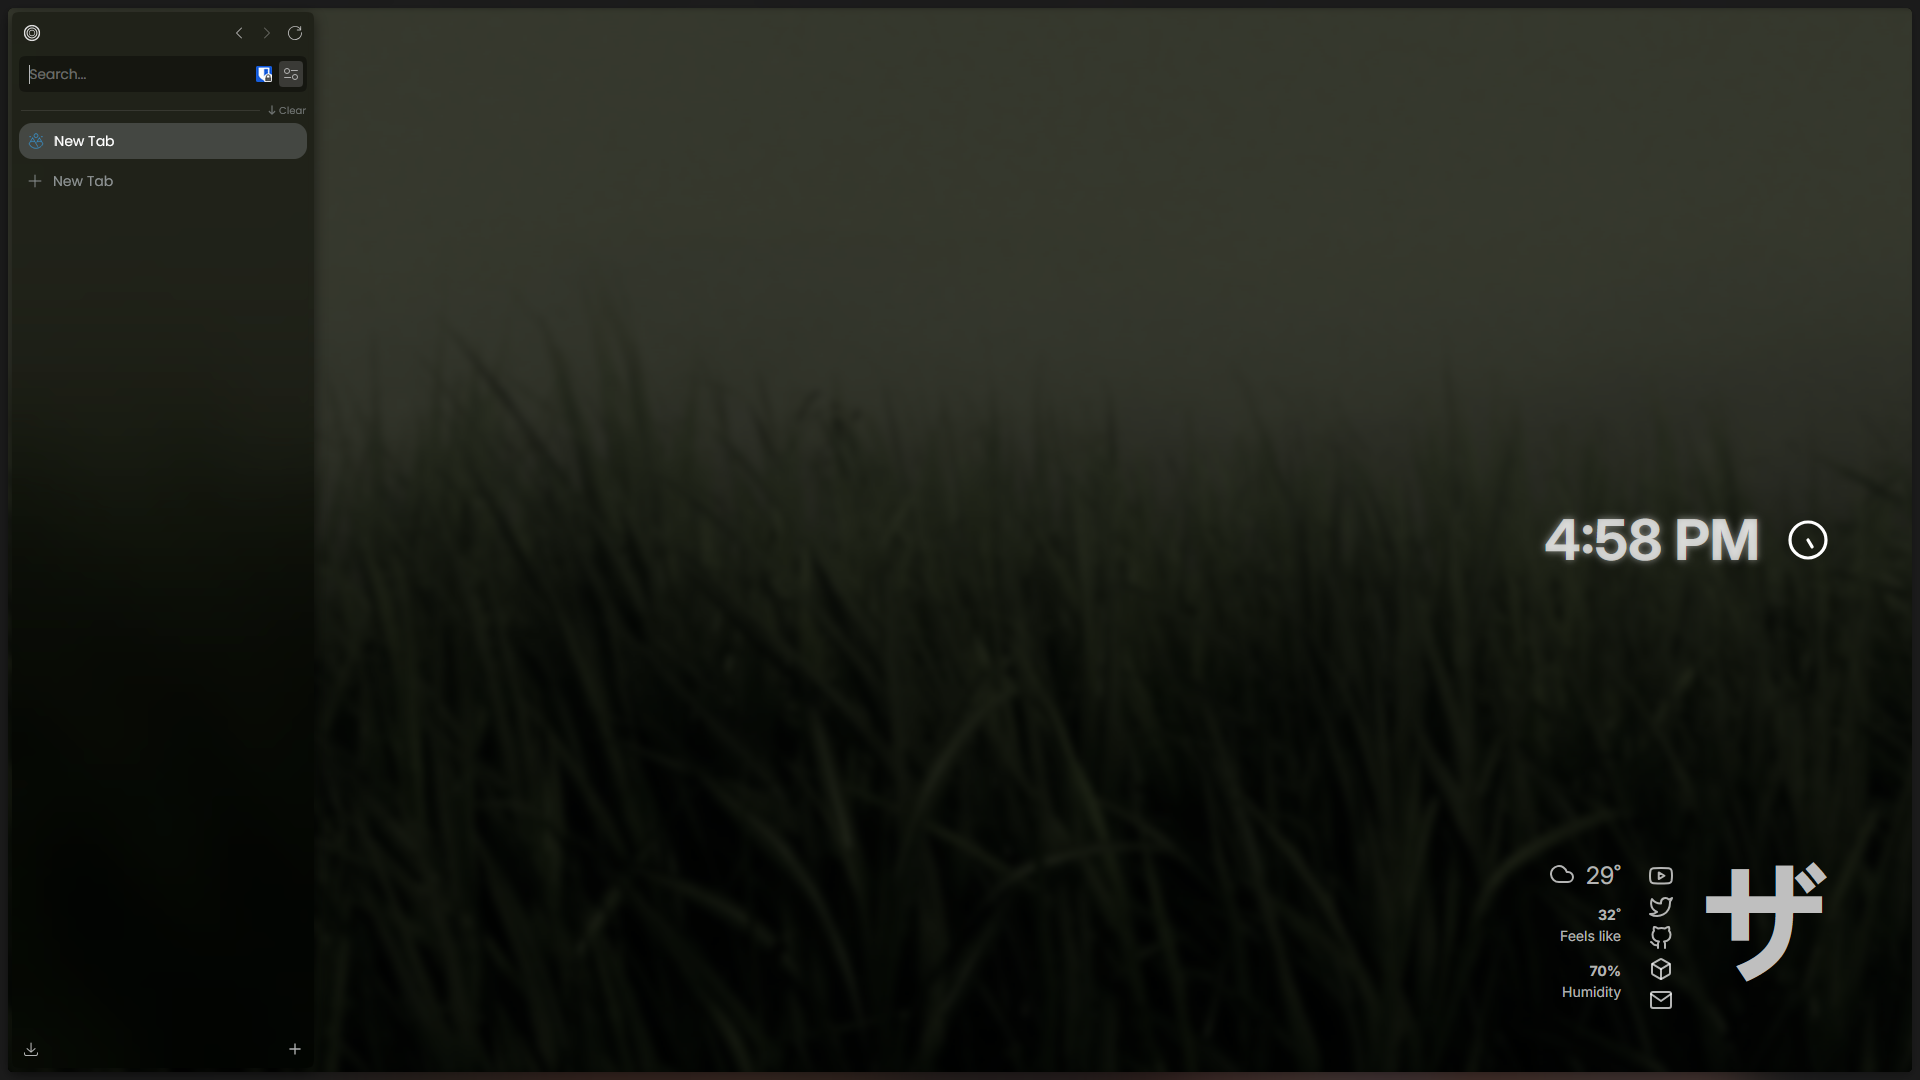
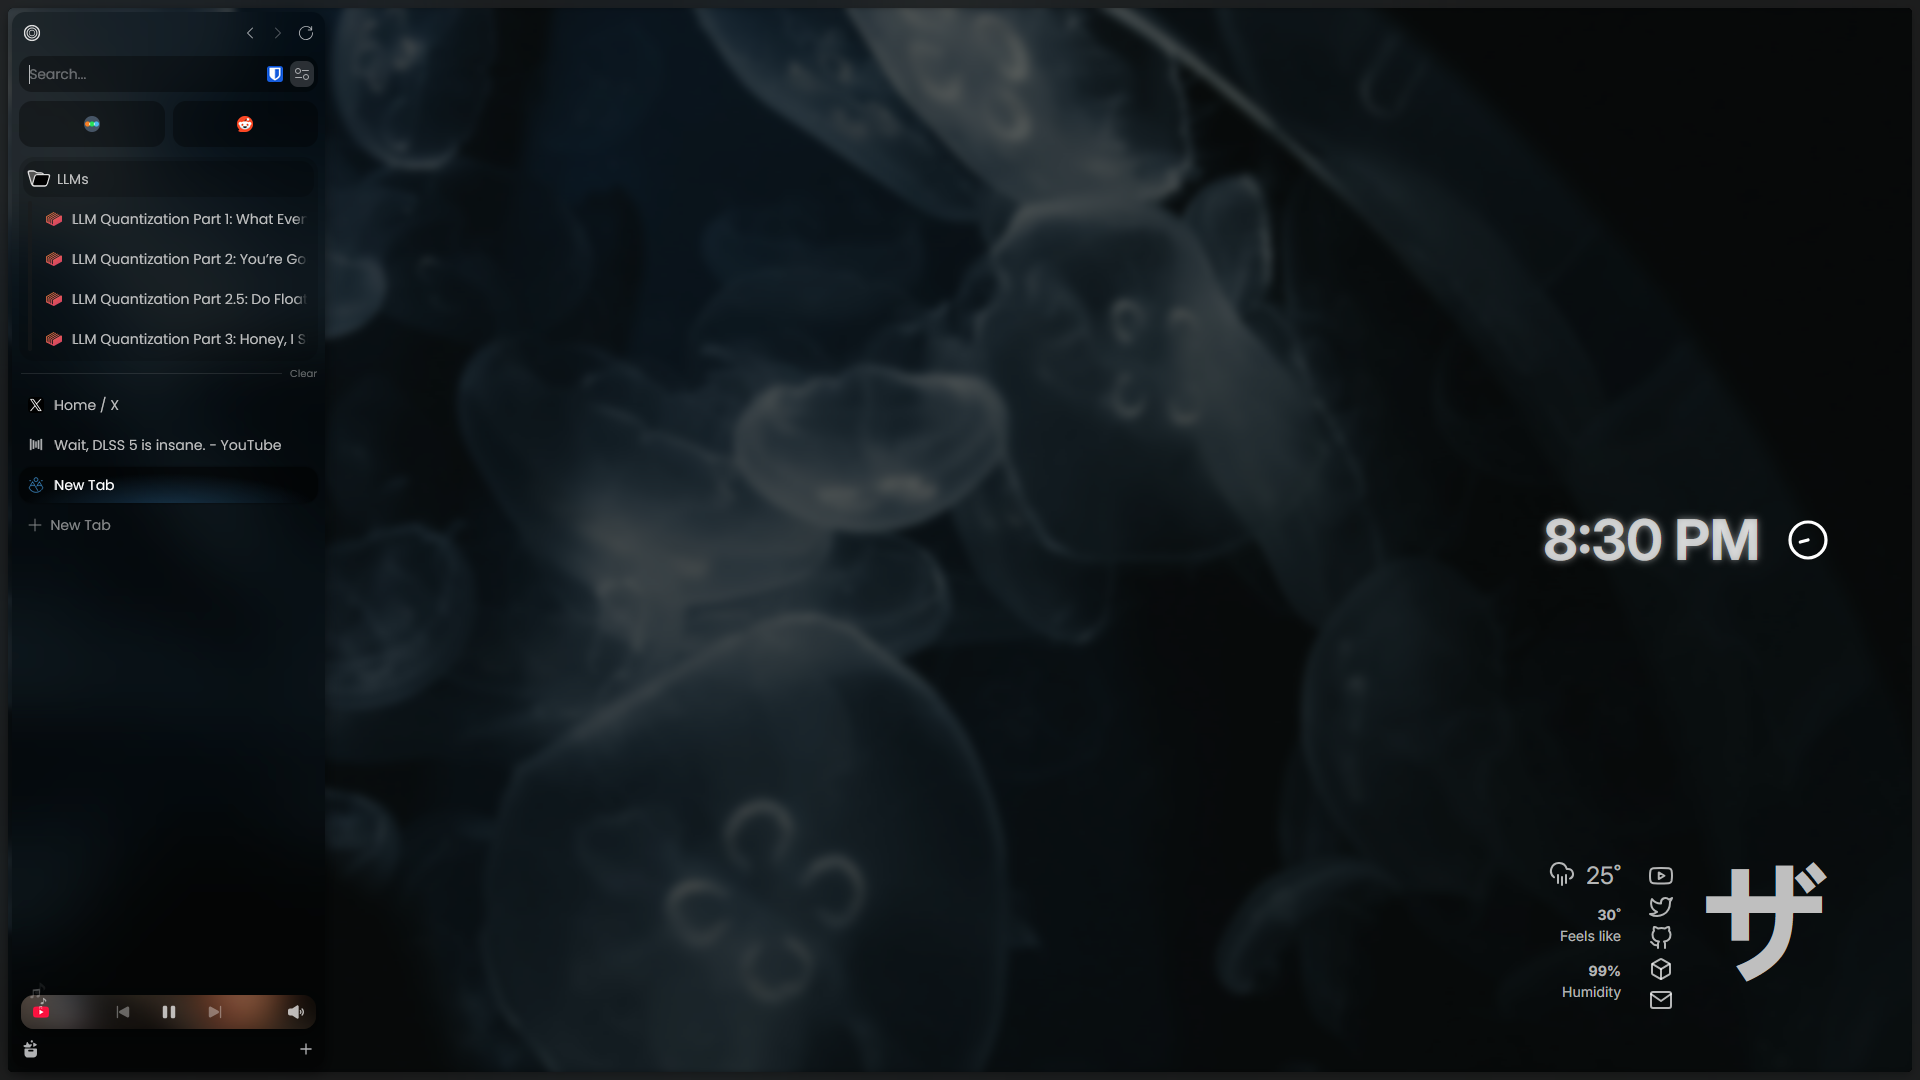
Add intro GIF and refresh README preview
Add a 10-second title intro GIF at the top of the README, a short Highlights section, and a new compact-mode screenshot showing the glass sidebar with a tab folder and media player.

diff --git a/README.md b/README.md
@@ -1,10 +1,18 @@
 # Nebula Nova
 
+![Nebula Nova intro: the title fades in, then the theme's New Tab page rises into view](screenshots/intro.gif)
+
 Version **3.6.0**, maintained by **ItsTatsuya**.
 
-Fork of [Zen-Nebula](https://github.com/JustADumbPrsn/Zen-Nebula). A glass based theme for [Zen Browser](https://zen-browser.app/). Nebula Nova is installed and configured through [Sine](https://github.com/CosmoCreeper/Sine).
+Fork of [Zen-Nebula](https://github.com/JustADumbPrsn/Zen-Nebula). A glass-based theme for [Zen Browser](https://zen-browser.app/). Nebula Nova is installed and configured through [Sine](https://github.com/CosmoCreeper/Sine).
 
-![Nebula Nova on the New Tab page](screenshots/base.png)
+## Highlights
+
+- Frosted glass on the floating browser UI: compact sidebar, URL bar, find bar, and media player.
+- Tab switch animations, hover glow, and UI and website tints, with separate light and dark colors.
+- Fonts, corner radius, window controls, and layout are all set from Sine's mod settings.
+
+![Nebula Nova in compact mode, with the glass sidebar showing a tab folder, open tabs, and the media player](screenshots/base.png)
 
 ## Install
 
